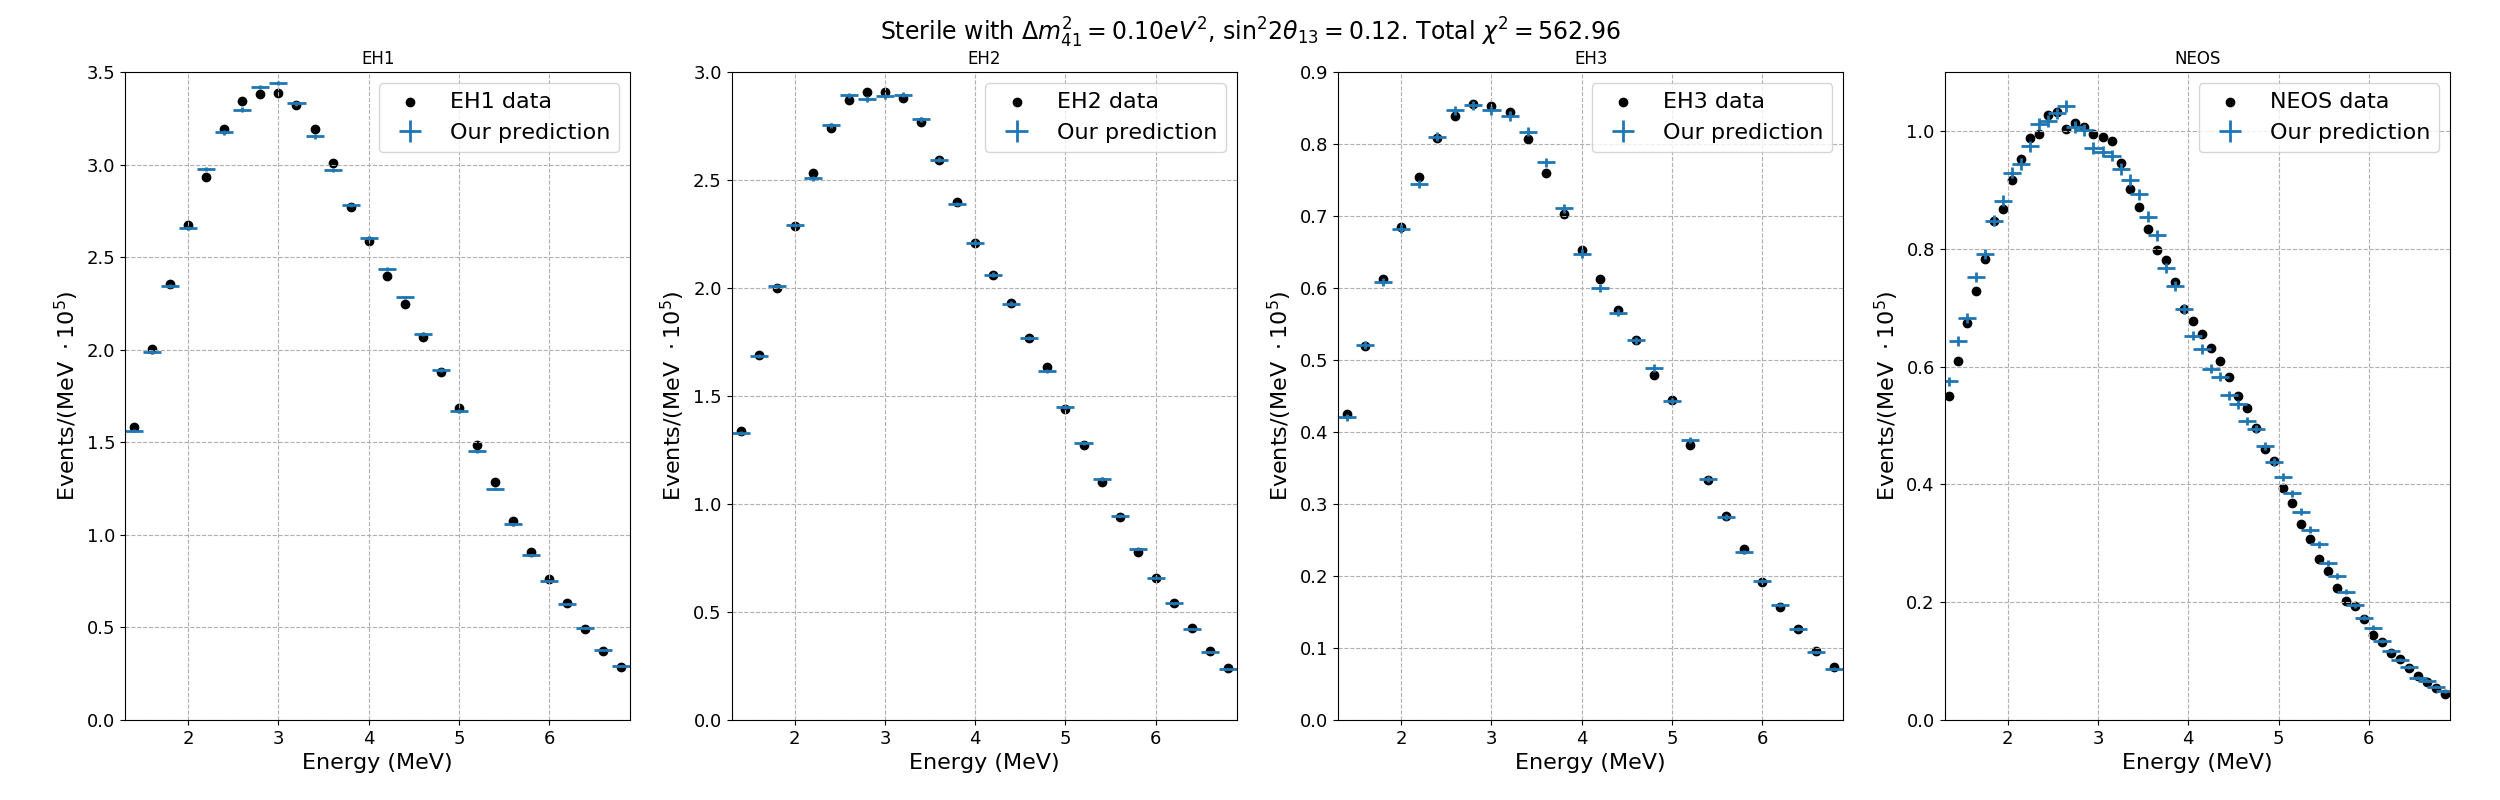
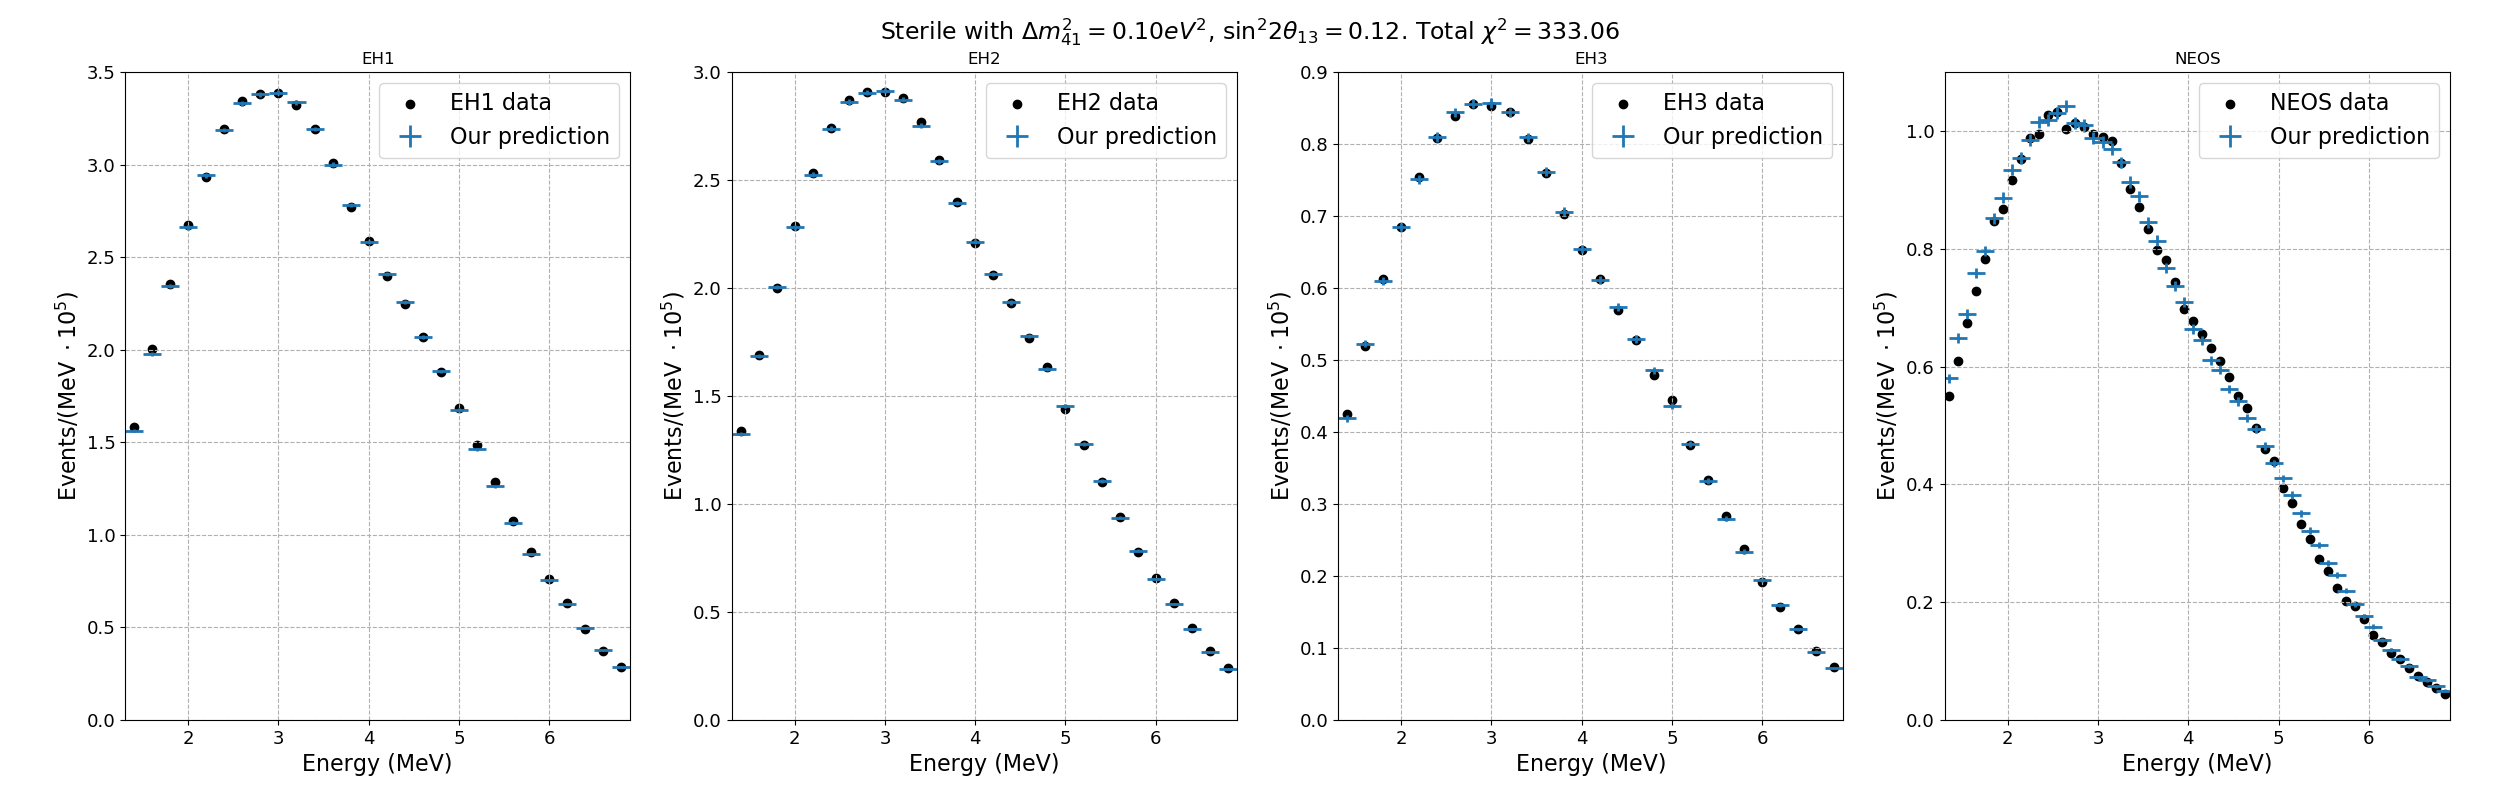
Corrected normalisation. The problem is still there.

diff --git a/NEOS/NEOS.py b/NEOS/NEOS.py
@@ -30,7 +30,7 @@ class Neos:
         # In principle, our analysis is flux-free, i.e. independent of the flux.
         # Therefore, the total normalisation of the flux is not important.
         # However, we consider an arbitrary large number of targets to prevent very small event expectations.
-        self.TotalNumberOfProtons = 1e50
+        self.TotalNumberOfProtons = 4.76567e50
 
         self.sets_names = NEOSP.exp_names
         self.reactor_names = NEOSP.reac_names
@@ -53,6 +53,7 @@ class Neos:
 
         self.AllData = NEOSD.all_data
         self.PredictedData = NEOSD.predicted_data
+        self.PredictedDataHM = NEOSD.predicted_data_HM
         self.ObservedData = NEOSD.observed_data
         self.PredictedBackground = NEOSD.predicted_bkg
 
@@ -227,7 +228,7 @@ class Neos:
             # the two deltaEfine are to implement a trapezoidal numeric integration in etrue and erec
             # the dL is to implement a trapezoidal numeric integration in L
             # we divide by the total width 2W because we want an intensive quantity! It is an average, not a total sum.
-        return expectation*self.deltaEfine**2*dL/(2*W)*self.EfficiencyOfHall[set_name]* self.TotalNumberOfProtons
+        return expectation*self.deltaEfine**2*dL/(2*W)*self.EfficiencyOfHall[set_name]*self.TotalNumberOfProtons
 
 
     def integrand(self,enu,L,model,erf,etf):
@@ -356,6 +357,9 @@ class Neos:
 
     def normalization_to_data(self,events):
         """
+        Returns a normalization factor with which to normalise the expected events
+        to the predicated data according to SM.
+
         Input:
         events: a dictionary with a string key for each experimental hall, linking to
         a numpy array for some histogram of events. In principle, it should be
@@ -366,13 +370,15 @@ class Neos:
         number of events of "events" is the same as the one from NEOS data.
         """
 
-        TotalNumberOfEvents = dict([(set_name,np.sum(self.ObservedData[set_name]))
+        TotalNumberOfEvents = dict([(set_name,np.sum(self.PredictedDataHM[set_name]))
                                      for set_name in self.sets_names])
         TotalNumberOfBkg = dict([(set_name,np.sum(self.PredictedBackground[set_name]))
                                   for set_name in self.sets_names])
 
         norm = dict([(set_name,(TotalNumberOfEvents[set_name]-TotalNumberOfBkg[set_name])/np.sum(events[set_name]))
                      for set_name in self.sets_names])
+        print(events)
+        print('norm: ', norm)
         return norm
 
 
@@ -392,8 +398,8 @@ class Neos:
         # We build the expected number of events for our model and we roughly normalise so that is of the same order of the data.
         exp_events = self.get_expectation_unnorm_nobkg(model,do_we_integrate = integrate, do_we_average = False)
 
-        norm = self.normalization_to_data(exp_events)
-        exp_events = dict([(set_name,(exp_events[set_name]*norm[set_name]) +self.PredictedBackground[set_name]) for set_name in self.sets_names])
+        # norm = self.normalization_to_data(exp_events) # Huge mistake!
+        exp_events = dict([(set_name,exp_events[set_name] +self.PredictedBackground[set_name]) for set_name in self.sets_names])
 
         # For the NEOS single fit, there are no nuissance parameters. We just return the data.
         model_expectations = dict([(set_name,np.array([(exp_events[set_name][i],np.sqrt(exp_events[set_name][i]),

diff --git a/DayaBay/DayaBay.py b/DayaBay/DayaBay.py
@@ -38,7 +38,7 @@ class DayaBay:
         # In principle, our analysis is flux-free, i.e. independent of the flux.
         # Therefore, the total normalisation of the flux is not important.
         # However, we consider an arbitrary large number of targets to prevent very small event expectations.
-        self.TotalNumberOfProtons = 1e53
+        self.TotalNumberOfProtons = {'EH1': 16.968688565113972e53, 'EH2': 15.783625798930741e53, 'EH3': 16.21670112543282e53}
 
         self.sets_names = DBP.exp_names
         self.reactor_names = DBP.reac_names
@@ -60,6 +60,7 @@ class DayaBay:
 
         self.AllData = DBD.all_data
         self.ObservedData = DBD.observed_data
+        self.PredictedDataNoOsc = DBD.predicted_data_noosc
         self.PredictedBackground = DBD.predicted_bkg
 
 
@@ -196,7 +197,7 @@ class DayaBay:
 
         # reactor loop ends
         # the two deltaEfine are to realise a trapezoidal numeric integration
-        return expectation*self.deltaEfine**2*self.EfficiencyOfHall[set_name]* self.TotalNumberOfProtons
+        return expectation*self.deltaEfine**2*self.EfficiencyOfHall[set_name]* self.TotalNumberOfProtons[set_name]
 
     def integrand(self,enu,L,model,erf,etf):
         """
@@ -267,7 +268,7 @@ class DayaBay:
 
         # reactor loop ends
         # only one trapezoidal numeric integration has been done
-        return expectation*self.deltaEfine*self.EfficiencyOfHall[set_name]*self.TotalNumberOfProtons
+        return expectation*self.deltaEfine*self.EfficiencyOfHall[set_name]*self.TotalNumberOfProtons[set_name]
 
 
     def get_expectation_unnorm_nobkg(self,model,do_we_integrate = False,imin = 0,imax = DBD.number_of_bins, do_we_average = False):
@@ -309,12 +310,14 @@ class DayaBay:
         number of events of "events" is the same as the one from observed data.
         Each experimental hall has a different factor.
         """
-        TotalNumberOfExpEvents = dict([(set_name,np.sum(self.ObservedData[set_name]))
+        TotalNumberOfExpEvents = dict([(set_name,np.sum(self.PredictedDataNoOsc[set_name]))
                                             for set_name in self.sets_names])
         TotalNumberOfBkg = dict([(set_name,np.sum(self.PredictedBackground[set_name]))
                                  for set_name in self.sets_names])
         norm = dict([(set_name,(TotalNumberOfExpEvents[set_name]-TotalNumberOfBkg[set_name])/np.sum(events[set_name]))
                      for set_name in self.sets_names])
+
+        print('norms: ', norm)
         return norm
 
 
@@ -354,8 +357,8 @@ class DayaBay:
 
         # We build the expected number of events for our model and we normalise so it has the same number of events of the data.
         exp_events = self.get_expectation_unnorm_nobkg(model,do_we_integrate = integrate, do_we_average = average)
-        norm = self.normalization_to_data(exp_events)
-        exp_events = dict([(set_name,exp_events[set_name]*norm[set_name]) for set_name in self.sets_names])
+        # norm = self.normalization_to_data(exp_events)
+        # exp_events = dict([(set_name,exp_events[set_name]*norm[set_name]) for set_name in self.sets_names])
 
         # We construct the nuissance parameters which minimise the Poisson probability
         # alpha_i = (dataEH1_i+dataEH2_i+dataEH3_i)/(expEH1_i+expEH2_i+expEH3_i)

diff --git a/NEOS/NEOSData.py b/NEOS/NEOSData.py
@@ -39,7 +39,7 @@ def reconstruct_matrix_function(self,etrue,erec):
     """
     This function tries to mimic the response matrix in inset from figure 3(a)
     in 1610.05134. More information on the fit in 1609.03910.
-    
+
     Input:
     etrue, erec (float): the true and reconstructed energies.
 
@@ -109,6 +109,7 @@ def txt_to_array(filename, sep = ","):
 # 2: Number of background events, per day, per 100 keV
 # 3: Ratio of NEOS data to DayaBay data
 # 4: Error of ratio of NEOS data to DayaBay data
+# 5: Number of expected events according to HM flux, per day, per 100 keV
 
 norm = 180.
 # It is important to say: this normalisation factor must not include the deltaE
@@ -118,6 +119,7 @@ fudge_bkg = 1.
 all_data = {'NEOS': txt_to_array(dir+"AllData.dat")}
 observed_data  = {'NEOS': norm*fudge_data*txt_to_array(dir+"AllData.dat")[:-1,0]}
 predicted_data = {'NEOS': norm*fudge_data*txt_to_array(dir+"AllData.dat")[:-1,1]}
+predicted_data_HM = {'NEOS': norm*fudge_data*txt_to_array(dir+"AllData.dat")[:-1,5]}
 predicted_bkg = {'NEOS': norm*fudge_bkg*txt_to_array(dir+"AllData.dat")[:-1,2]}
 # predicted_bkg = {'NEOS':np.zeros([number_of_bins])}
 

diff --git a/GlobalFit/EventExpectationPlots.py b/GlobalFit/EventExpectationPlots.py
@@ -24,9 +24,9 @@ Model_osc = Models.PlaneWaveSM()
 Model_coh = Models.WavePacketSM()
 
 # Sterile parameters
-sin2 = 0.117
-dm2 = 0.1
-Model_ste = Models.PlaneWaveSterile(Sin22Th14 = sin2, DM2_41 = dm2)
+sin2 = 0.0
+dm2 = 0.0
+Model_ste = Models.WavePacketSterile(Sin22Th14 = sin2, DM2_41 = dm2)
 
 
 # -------------------------------------------------------------
@@ -36,9 +36,9 @@ Model_ste = Models.PlaneWaveSterile(Sin22Th14 = sin2, DM2_41 = dm2)
 
 def what_do_we_do(mass):
     """Mass must be in eV^2. """
-    if mass <= 0.0299:
+    if mass <= 0.15:
         return {'DB':{'integrate':False,'average':False},'NEOS':{'integrate':False,'average':False}}
-    elif (mass > 0.0299) and (mass <= 1.):
+    elif (mass > 0.15) and (mass <= 1.):
         return {'DB':{'integrate':True,'average':False},'NEOS':{'integrate':False,'average':False}}
     elif (mass > 1.) and (mass <= 2.):
         return {'DB':{'integrate':True,'average':False},'NEOS':{'integrate':True,'average':False}}

diff --git a/GlobalFit/GlobalFit.py b/GlobalFit/GlobalFit.py
@@ -129,8 +129,8 @@ class GlobalFit:
                                                   do_average_DB  = do_we_average_DB,   do_average_NEOS =  do_we_average_NEOS)
 
         # We normalise the data from each experimental hall to its own data.
-        norm = self.normalization_to_data(exp_events)
-        exp_events = dict([(set_name,exp_events[set_name]*norm[set_name]) for set_name in self.sets_names])
+        # norm = self.normalization_to_data(exp_events) # Huge mistake
+        # exp_events = dict([(set_name,exp_events[set_name]*norm[set_name]) for set_name in self.sets_names])
 
         # We compute and apply the nuissances parameters to all experiments.
         nuissances = self.get_nuissance_parameters(exp_events)

diff --git a/DayaBay/DayaBayData.py b/DayaBay/DayaBayData.py
@@ -74,6 +74,10 @@ observed_data = {'EH1': txt_to_array(dir+"DataEH1.dat")[:,3],
                  'EH2': txt_to_array(dir+"DataEH2.dat")[:,3],
                  'EH3': txt_to_array(dir+"DataEH3.dat")[:,3]}
 
+predicted_data_noosc = {'EH1': txt_to_array(dir+"DataEH1.dat")[:,5],
+                        'EH2': txt_to_array(dir+"DataEH2.dat")[:,5],
+                        'EH3': txt_to_array(dir+"DataEH3.dat")[:,5]}
+
 predicted_bkg = {'EH1': txt_to_array(dir+"DataEH1.dat")[:,6],
                  'EH2': txt_to_array(dir+"DataEH2.dat")[:,6],
                  'EH3': txt_to_array(dir+"DataEH3.dat")[:,6]}

diff --git a/DayaBay/EventExpectationPlots.py b/DayaBay/EventExpectationPlots.py
@@ -19,10 +19,12 @@ import matplotlib
 
 
 DB_test = DB.DayaBay()
+Model_noosc = Models.NoOscillations()
 Model_osc = Models.PlaneWaveSM()
 # Model_osc = Models.PlaneWaveSM(Sin22Th13 = 0.07821,DM2_31 = 2.5e-3)
 Model_coh = Models.WavePacketSM()
 Model_ste = Models.PlaneWaveSterile(Sin22Th14 = 0.6, DM2_41 = 6)
+
 
 # -------------------------------------------------------
 # Event expectations
